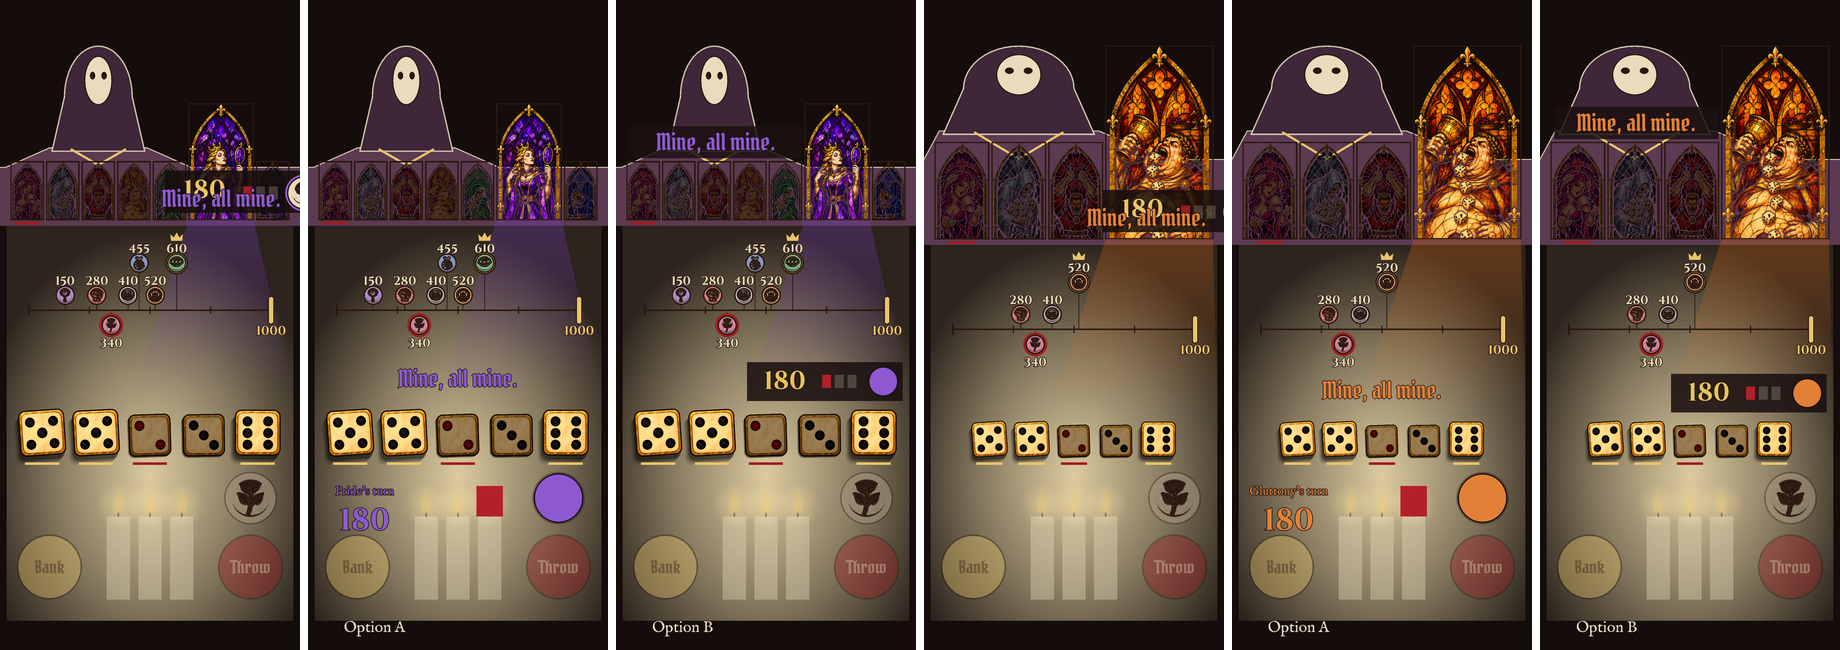
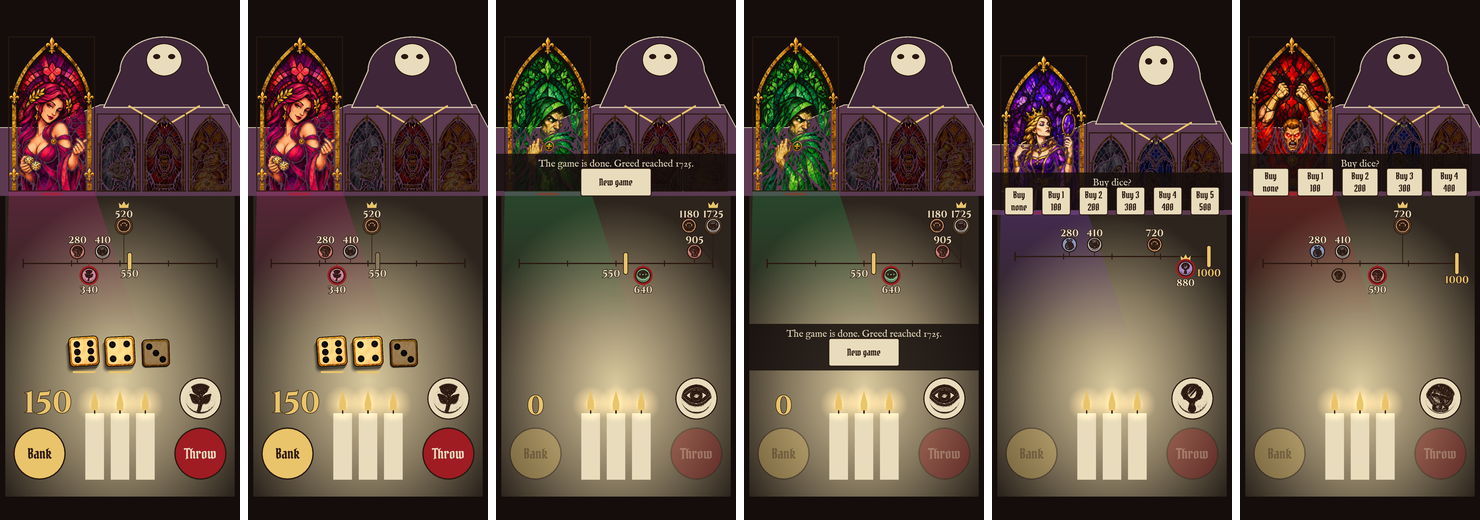
review: packet for REPLY 21 (reports 5-6, post, game end, buy row, docs; line-time and option A proposals); REPLY 20 packet archived

diff --git a/Docs/review/latest/packet.md b/Docs/review/latest/packet.md
@@ -1,20 +1,21 @@
-# Packet: REPLY 20 confirm (rival plate, top row; nothing built)
-REPLY 19's two questions are still open (`Docs/review/archive/2026-11-16-reply19/packet.md`); nothing from 19 or 20 is built.
-
-**Why it runs off:** the plate is 566 px wide (stake 270 + 3 marks + the 110 px seal + pads), but its clamp keeps only 400 px from the page's right edge (`table_blockout.gd` ~305). The seal was added beside the marks later and the clamp wasn't widened. At 7 seats, windows 5 and 6 overflow; at 4 seats, window 3 cuts the seal. The spoken line uses the same spot (`sr.end.y - 130`), so the two always collide on a rival's own line.
-
-**Your lines:**
-- Touches: correct. Add the stake ring when a rival's power takes the stake (Cash Out, Hubris), which is placed off the plate. Add the candle flash and bust shake in `table_play._animate` (skipped on rivals' turns today). Add fixtures `table_rival_4/7`, `table_rival_seal_*`, `table_power_rival`, `table_speech`, and TableSpec.
-- Could break: correction: neither option touches REPLY 16's windows (both move off the row onto the page). The track at 7 seats: B's strip sits just under my marker's number (close at SE). The mark arm: not touched (both are below the row).
-- Missed: in A, the page's candles and seal would show the rival's on their turn, not mine. Whose Strikes they are must read from colour and the name tag.
-
-**Shots now** (each window active, 4 and 7 seats, a line from the active Sin): `now_4_std/se`, `now_7a_std/se` (windows 1-3), `now_7b_std/se` (4-6).
-**Mockups** (flat, over a shot with the plate removed): `sheet.png` (std: 7 seats window 5, 4 seats window 3: now, A, B), `sheet_se.png` (7 seats windows 1 and 5).
-- **A, the rival plays on my page:** its stake where mine sits (in its colour, "Pride's turn" above), its Strikes on the candles, its seal in my seal's place. The spoken line goes in the gap between the track and the dice, for every speaker.
-- **B, a strip under the track:** stake, 3 marks and seal on an ink strip between my marker and the dice, under the active window, clamped on screen. The spoken line goes on the Master's plate spot (robe, above the rivals' tops; his and a Sin's line already clear each other). My candles and seal stay mine.
-
-**What I see:** in A at SE, the stake's "180" sits on the top edge of the dimmed Bank button. In B at SE, the strip's top is about 10 px under my marker's "340", and the line's plate overlaps the hood's lower edge when window 1 is active.
+# Packet: REPLY 21 (reports 5-6, post, game end, buy row, docs; line-time and A proposals)
+**Local only, not pushed.** Suite: all pass. Text audit: 33/33 clean at se and std.
+**5. Your 725 lead.** In 118 your rivals were the normal table bots (`chooser(5)`: buy to 5 dice, bank at 300). First-game bots only play your very first game after install (`games_finished` 0). Sim (20000 mixed, built rules): after round 3 the leader is 300+ clear of second in 12.5% of games, 400+ in 5.2%, 500+ in 2.3%, 600+ in 0.9%. By the leader's profile: gamblers 15/8/4/2%, every other profile within 2 points of the mean. "Plain" tables match (12.5/5.3/2.2/1.0). So yours was about a 1-in-100 game.
+**6. Greed's Cash Out.** The player reads "Bank half your stake at x1.25; keep throwing." What happens: half the stake (rounded down to 5) goes to your total as x1.25 (to 5). The other half stays as stake, and you must throw (there's no bank on that decision). On a later bust you lose the stake but keep half of the whole turn's face points, including the half you already cashed. That last part pays twice. Reported, not fixed.
+**7. Post:** a dim grey-gold bar until he may call (after round 3), gold after. The number keeps its contrast (bone on an ink edge). New fixture `table_master_post_dim`.
+**3. Game end:** its line and New game sit on their own plate on the page where the dice were. My window and every total stay clear.
+**2. Buy:** one row, low to high: Buy none, then 1 up to what you can afford, at most 5. `Rules.MAX_BUY` 5 is in `max_buy` and the bots' clamp. Each button reads "Buy 3" over "300" (42 px, about 14.6 pt at SE: just under 15). Sim baseline with the cap: identical (20.4-27.8, 1.72 dice bought a seat). Bots never buy more than 5 at once; a cap of 1 shows the cap is wired (1.52). **Dead top row:** not found. Real clicks and touch taps work in a live game; my test of 118's two-row layout hung twice, so I dropped it. That layout is gone.
+**1. Docs:** TableDesign §0 (the game as built: round, turn steps, buying, each power), and Handoff is up to date. Code and docs differ here (reported, not picked): (a) a Pride bust under Hubris still keeps half the face points; (b) the Greed double pay above; (c) TableDesign §5 says a table bot turn takes 2.5 s, tuning.gd and bot_pace say 4 s; (d) TableDesign's title still says V4.
+**Sheets:** `sheet.png` / `sheet_se.png`: post lit, post dim, end before, end after, buy row (6 and 5 options). The buy row before (two rows, high to low): `Docs/review/archive/2026-11-16-reply20/now_*`.
+**4. Line times (proposal; measured in a live game at 1x, 120 bot turns).** Today: 11-12 lines a minute (Master about half), so 49-60% are already replaced by the next one before 2.6 s. Bot turn avg 4.0 s at 4 seats, 4.1 s at 7 (the 4 s target already fails).
+| option | bot turn | cut short by the next line | game time |
+|---|---|---|---|
+| A: 3.5 s, table doesn't wait | 4.0 s | 56-64% | +0% |
+| B: 4.5 s, table doesn't wait | 4.0 s | 67-72% | +0% |
+| C: 4.5 s, table waits for each line | about 5.8 s | 0% | +43-46% |
+**REPLY 20, A (`mockA_std/se`).** Your lines, corrected: the gain does pop in the strip between the track and the dice, and A1 (the line in that strip) collides with it. A2 puts the line on the Master's plate spot in the robe, with the speaker's sigil, clear of the gain. The rival's seal in my seal's slot is a flat disc, with no bone ring and no press. My seal is hidden on their turn. At SE the rival's stake still touches the Bank button's top edge, and A2's plate meets the hood when window 1 is active.
 
 **Questions**
-1. A or B? Rec: A. Whoever throws owns the page, so there's one place to look for stake, Strikes and seal, and it needs no new space.
-2. A line from a Sin that isn't throwing (a reaction): same spot, with that Sin's sigil beside it? Rec: yes. Colour alone won't tell 7 seats apart.
+1. Line time: A, B, or C? Rec: B plus fewer Master lines (at most one a round outside the call, the mark and the end), so fewer are cut.
+2. A1 or A2 for the line under option A? Rec: A2. The gain owns the strip.
+3. Greed: on a bust after Cash Out, keep half of only the face points still in the stake? Rec: yes. It's a rules change (core/game.gd) for your OK.

diff --git a/Docs/review/archive/2026-11-16-reply20/packet.md b/Docs/review/archive/2026-11-16-reply20/packet.md
@@ -1,0 +1,20 @@
+# Packet: REPLY 20 confirm (rival plate, top row; nothing built)
+REPLY 19's two questions are still open (`Docs/review/archive/2026-11-16-reply19/packet.md`); nothing from 19 or 20 is built.
+
+**Why it runs off:** the plate is 566 px wide (stake 270 + 3 marks + the 110 px seal + pads), but its clamp keeps only 400 px from the page's right edge (`table_blockout.gd` ~305). The seal was added beside the marks later and the clamp wasn't widened. At 7 seats, windows 5 and 6 overflow; at 4 seats, window 3 cuts the seal. The spoken line uses the same spot (`sr.end.y - 130`), so the two always collide on a rival's own line.
+
+**Your lines:**
+- Touches: correct. Add the stake ring when a rival's power takes the stake (Cash Out, Hubris), which is placed off the plate. Add the candle flash and bust shake in `table_play._animate` (skipped on rivals' turns today). Add fixtures `table_rival_4/7`, `table_rival_seal_*`, `table_power_rival`, `table_speech`, and TableSpec.
+- Could break: correction: neither option touches REPLY 16's windows (both move off the row onto the page). The track at 7 seats: B's strip sits just under my marker's number (close at SE). The mark arm: not touched (both are below the row).
+- Missed: in A, the page's candles and seal would show the rival's on their turn, not mine. Whose Strikes they are must read from colour and the name tag.
+
+**Shots now** (each window active, 4 and 7 seats, a line from the active Sin): `now_4_std/se`, `now_7a_std/se` (windows 1-3), `now_7b_std/se` (4-6).
+**Mockups** (flat, over a shot with the plate removed): `sheet.png` (std: 7 seats window 5, 4 seats window 3: now, A, B), `sheet_se.png` (7 seats windows 1 and 5).
+- **A, the rival plays on my page:** its stake where mine sits (in its colour, "Pride's turn" above), its Strikes on the candles, its seal in my seal's place. The spoken line goes in the gap between the track and the dice, for every speaker.
+- **B, a strip under the track:** stake, 3 marks and seal on an ink strip between my marker and the dice, under the active window, clamped on screen. The spoken line goes on the Master's plate spot (robe, above the rivals' tops; his and a Sin's line already clear each other). My candles and seal stay mine.
+
+**What I see:** in A at SE, the stake's "180" sits on the top edge of the dimmed Bank button. In B at SE, the strip's top is about 10 px under my marker's "340", and the line's plate overlaps the hood's lower edge when window 1 is active.
+
+**Questions**
+1. A or B? Rec: A. Whoever throws owns the page, so there's one place to look for stake, Strikes and seal, and it needs no new space.
+2. A line from a Sin that isn't throwing (a reaction): same spot, with that Sin's sigil beside it? Rec: yes. Colour alone won't tell 7 seats apart.
